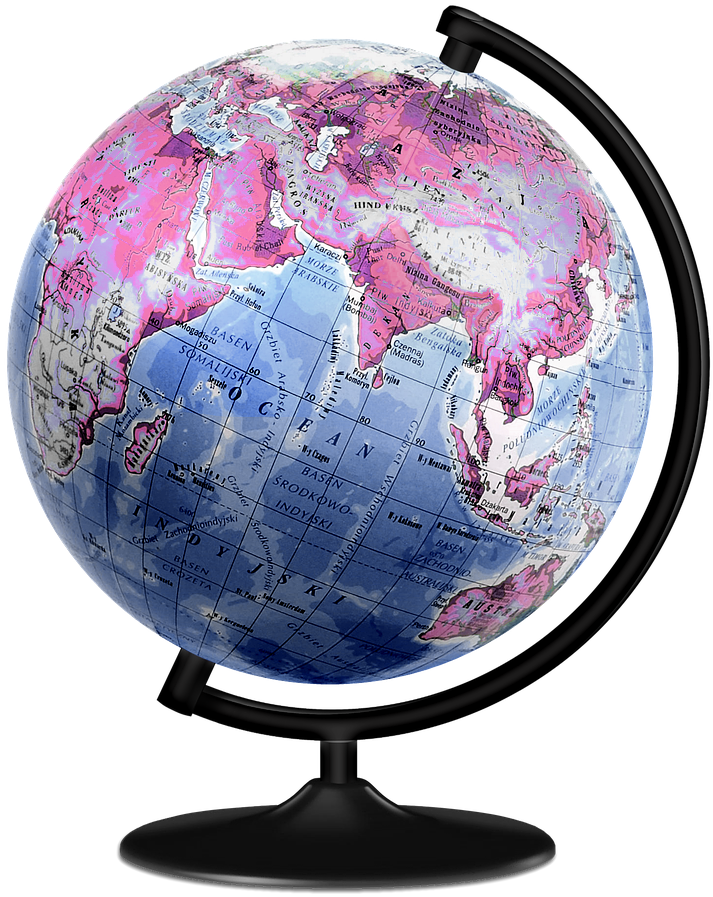
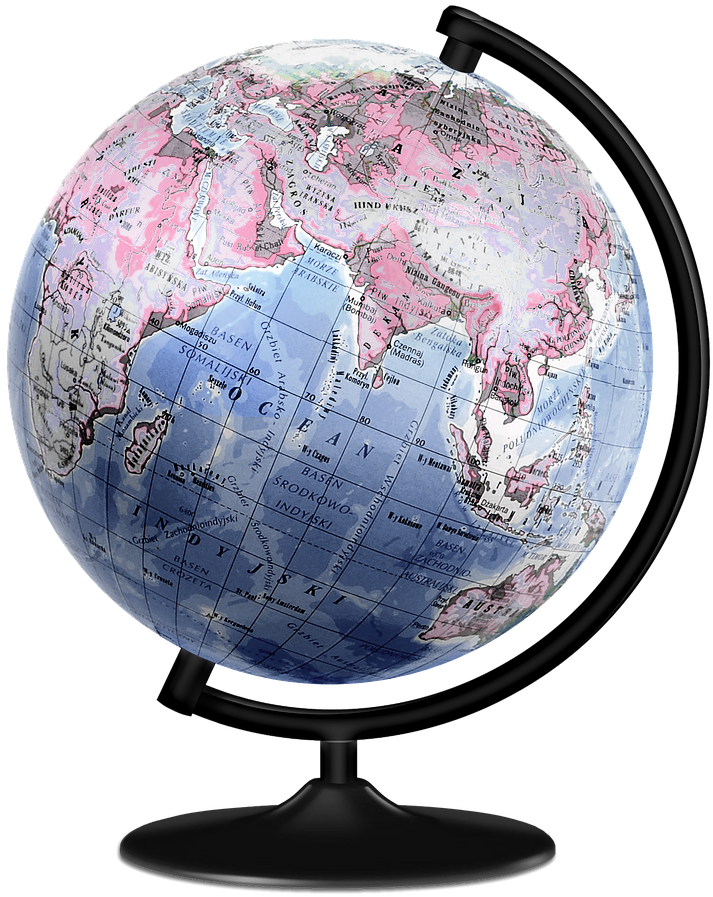
improved image rendering

diff --git a/css/style.scss b/css/style.scss
@@ -40,8 +40,10 @@ blockquote {
 
 img {
   max-width: 100%;
-  image-rendering: pixelated;
+  image-rendering: -webkit-optimize-contrast;  // improves render for mac Chrome
 }
+
+
 
 /* ------ SECTIONS ------ */
 /* ------ SECTIONS ------ */
@@ -118,12 +120,11 @@ body {
 
     div.line {
       display: block;
-      padding-right: 10px;
       margin-bottom: 15px;
 
       span {
         display: inline-block;
-        font-size: 18px;
+        font-size: 2.1rem;
         background-color: white;
         font-style: italic;
         padding: 0 5px;
@@ -153,6 +154,7 @@ body {
     .international-picture {
       width: 75%;
       margin: 35px auto;
+      image-rendering: -webkit-optimize-contrast;  // improves render for mac Chrome
     }
 
     p, ul {
@@ -222,7 +224,7 @@ body {
       button {
         // background-color: white;
         background-color: #42406c;
-        color: #f4d2d1;
+        color: white;
         padding-top: 8px;
         padding-bottom: 8px;
         border: none;

diff --git a/css/style.css b/css/style.css
@@ -37,7 +37,7 @@ blockquote {
 
 img {
   max-width: 100%;
-  image-rendering: pixelated;
+  image-rendering: -webkit-optimize-contrast;
 }
 
 /* ------ SECTIONS ------ */
@@ -103,12 +103,11 @@ body section.quote {
 }
 body section.quote div.line {
   display: block;
-  padding-right: 10px;
   margin-bottom: 15px;
 }
 body section.quote div.line span {
   display: inline-block;
-  font-size: 18px;
+  font-size: 2.1rem;
   background-color: white;
   font-style: italic;
   padding: 0 5px;
@@ -133,6 +132,7 @@ body section.pacific-pace .head-bar {
 body section.pacific-pace .international-picture {
   width: 75%;
   margin: 35px auto;
+  image-rendering: -webkit-optimize-contrast;
 }
 body section.pacific-pace p, body section.pacific-pace ul {
   text-shadow: 1px 1px white;
@@ -188,7 +188,7 @@ body section.cta .buttons-row {
 }
 body section.cta .buttons-row button {
   background-color: #42406c;
-  color: #f4d2d1;
+  color: white;
   padding-top: 8px;
   padding-bottom: 8px;
   border: none;
